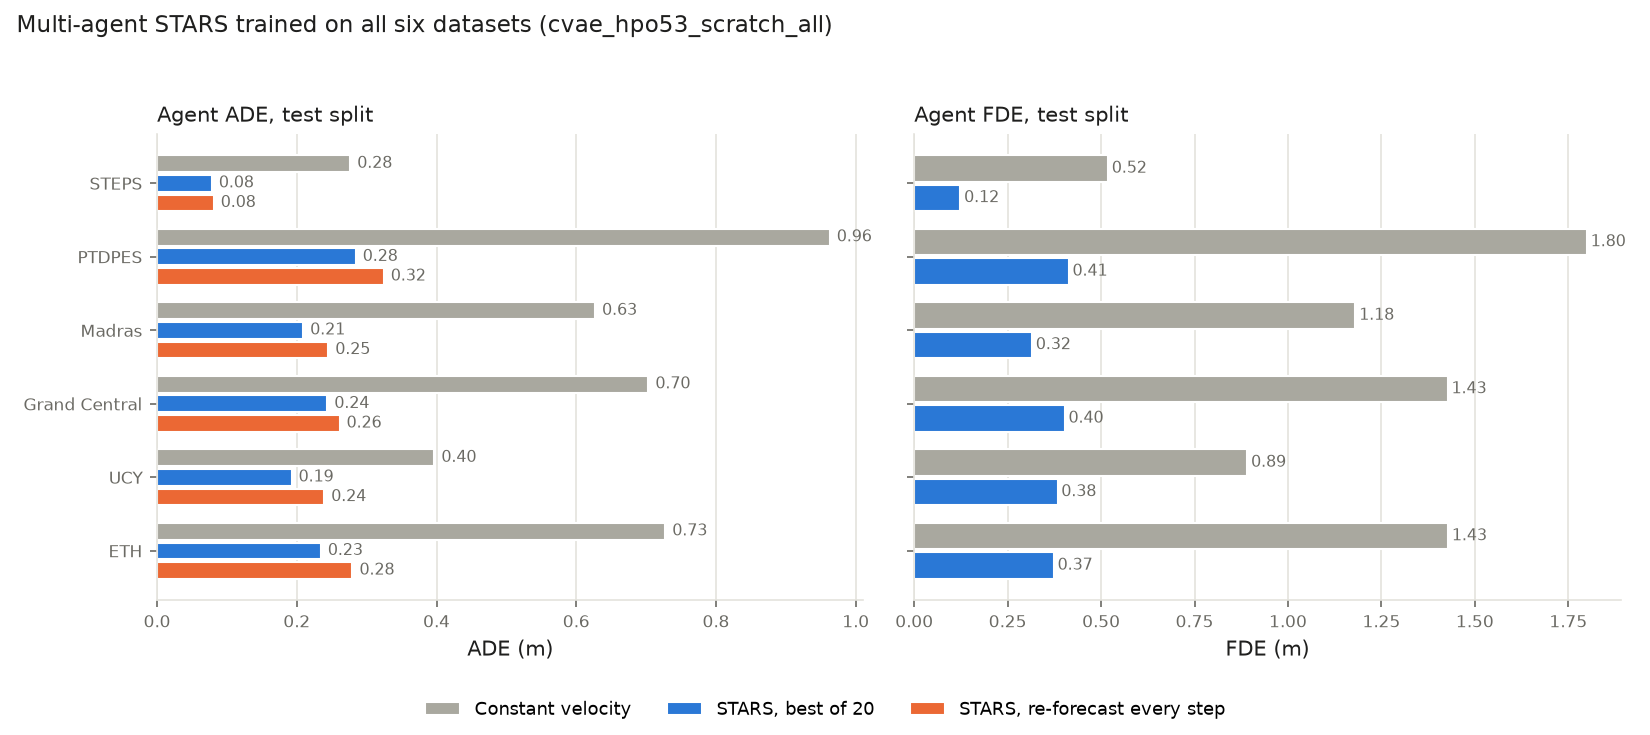
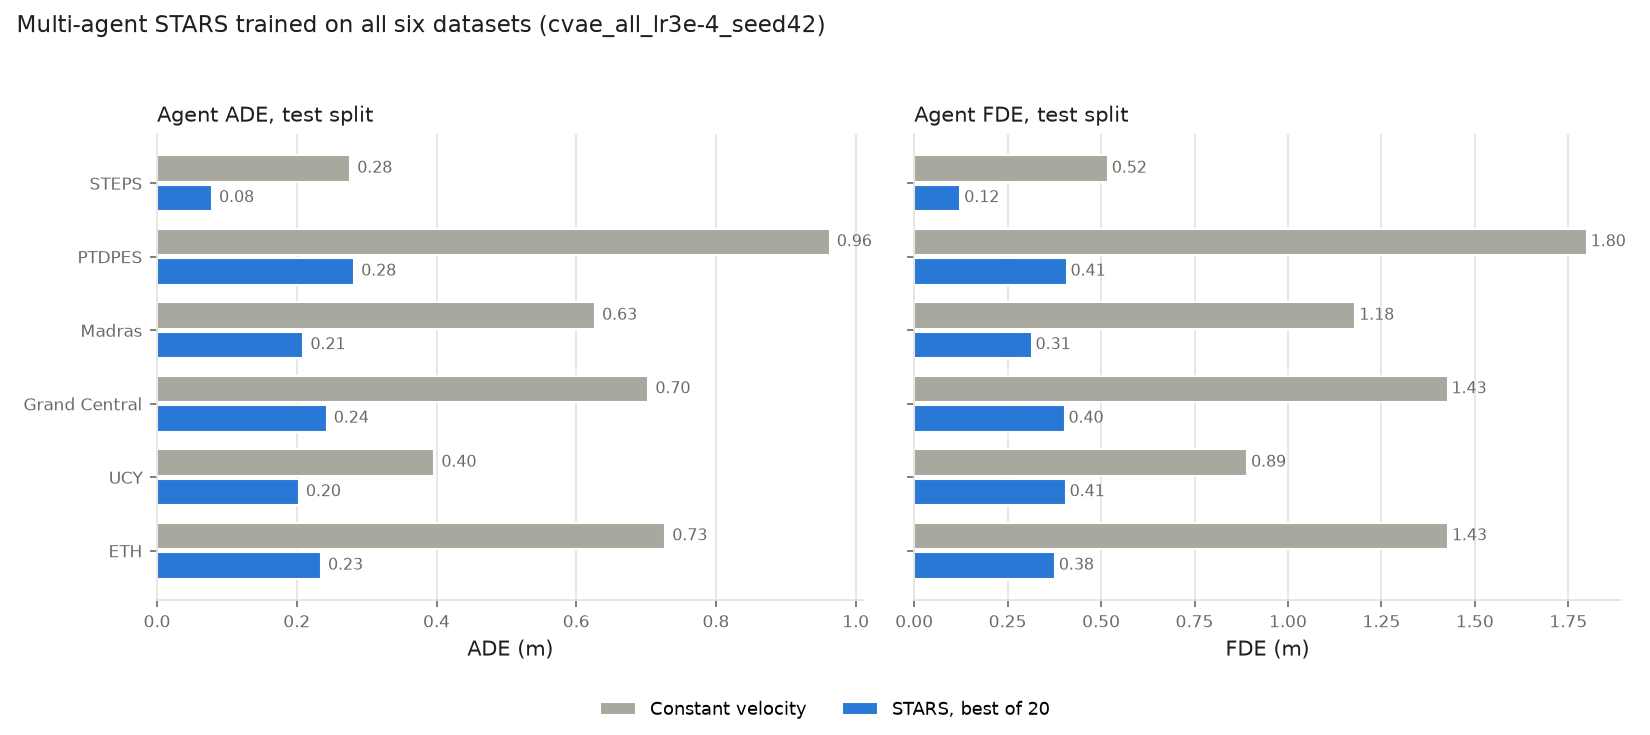
Pooled LR 3e-4 is robust and beats per-dataset models; new all-dataset reference (decision 86)

diff --git a/docs/results/README.md b/docs/results/README.md
@@ -11,10 +11,11 @@ numbers here are copied from the files linked below. The reasoning behind each c
 | Use | Artifact | Headline (test split) |
 | --- | --- | --- |
 | STEPS forecaster, and the SEAN-JAX crowd and predictor | `experiments/stars_ma/runs/cvae_kl01_finetune/checkpoints/best.pt` | ADE / FDE 0.080 / 0.126 (constant velocity 0.276 / 0.518); realistic 20 s rollouts [48] |
-| All-dataset forecaster | `experiments/stars_ma/runs/cvae_hpo53_scratch_all/checkpoints/best.pt` | 2-3.5x better than constant velocity on all six datasets. Seed-sensitive: this seed is the best of three, and averaged over seeds pooling beats per-dataset models only on UCY and ETH [80, 84] |
+| All-dataset forecaster | `experiments/stars_ma/runs/cvae_all_lr3e-4_seed42/checkpoints/best.pt` | 2-3.5x better than constant velocity on all six datasets. Better than or level with a per-dataset model on every dataset, robust across seeds (pooled LR 3e-4) [86] |
 | Navigation policy | `checkpoints/seanjax/cmaes_crowd_v4/best_policy.yaml` | In the STARS crowd: 99% success, 0.7% collisions, 100% on recorded STEPS scenes [75] |
 
-Closed questions: hyperparameter search has converged [61, 62]; closed-loop training does not
+Closed questions: pooled training beats per-dataset training once its LR is lowered to 3e-4 [86];
+hyperparameter search has converged [61, 62]; closed-loop training does not
 help [47, 65, 73]; controller cost terms cannot remove the remaining dense-flow loops [79].
 
 ## Trajectory forecasting (STEPS test split, 12,500 windows)
@@ -49,27 +50,29 @@ speed is above 0.2 m/s; about 90% of STEPS pedestrians are slower. The full tabl
 - **Searches:** [`hpo_steps_cvae_scratch.md`](hpo_steps_cvae_scratch.md) and
   [`hpo_steps_cvae_ssl.md`](hpo_steps_cvae_ssl.md).
 
-### All six datasets (test split) [59]
+### All six datasets (test split) [59, 86]
 
-Full table: [`stars_ma_all_test.md`](stars_ma_all_test.md). From-scratch model with trial-53
-settings, agent ADE / FDE, best-of-20, against constant velocity:
+Reference pooled model `cvae_all_lr3e-4_seed42` (trial-53 architecture, pooled LR 3e-4), agent
+ADE / FDE, best-of-20, against constant velocity. The earlier pooled model and its rollout
+analysis are in [`stars_ma_all_test.md`](stars_ma_all_test.md).
 
-| Dataset | Constant velocity | STARS (`cvae_hpo53_scratch_all`) |
+| Dataset | Constant velocity | STARS (`cvae_all_lr3e-4_seed42`) |
 | --- | --- | --- |
-| STEPS | 0.276 / 0.518 | 0.078 / 0.123 |
-| PTDPES | 0.963 / 1.800 | 0.284 / 0.413 |
+| STEPS | 0.276 / 0.518 | 0.079 / 0.124 |
+| PTDPES | 0.963 / 1.800 | 0.282 / 0.408 |
 | Madras | 0.627 / 1.180 | 0.209 / 0.315 |
-| Grand Central | 0.703 / 1.427 | 0.244 / 0.403 |
-| UCY | 0.397 / 0.891 | 0.193 / 0.383 |
-| ETH | 0.727 / 1.428 | 0.234 / 0.373 |
+| Grand Central | 0.703 / 1.427 | 0.243 / 0.403 |
+| UCY | 0.397 / 0.891 | 0.203 / 0.406 |
+| ETH | 0.727 / 1.428 | 0.235 / 0.377 |
 
 ![Per-dataset test error](stars_ma_all_test.png)
 
 - SSL pretraining plus fine-tuning is 0.002–0.010 m worse on every dataset.
-- **One model per dataset vs one for all** [80, 84]: seed 42 of the all-dataset model (charted) is
-  better than or level with each dataset's own model everywhere. Over three seeds, though, the
-  all-dataset model averages 2-6% *worse* on STEPS, PTDPES, Madras and Grand Central, and 18-35%
-  better on UCY and ETH. A 60-epoch schedule is being tested to remove the seed sensitivity.
+- **One model per dataset vs one for all** [86]: with the pooled LR lowered to 3e-4, the pooled
+  model is better than or level with each dataset's own model on every dataset, across four runs:
+  STEPS within ±1%, PTDPES, Madras and Grand Central 1-3% better, UCY 22-24% and ETH 40-42%
+  better. (At the STEPS-tuned LR of 9.6e-4 pooling was seed-sensitive and on average worse on the
+  large datasets [84, 85].)
 
 ![One model per dataset vs one for all](stars_ma_single_vs_all.png)
 - Feeding back its own predictions every step costs little on STEPS but 14–20% elsewhere.

diff --git a/docs/decisions.md b/docs/decisions.md
@@ -1137,3 +1137,31 @@ why, and how to undo it.
     - The 60-epoch seed-42 model lands at the typical level, not the lucky one: STEPS 0.087,
       PTDPES 0.313, Grand Central 0.260, UCY 0.215, ETH 0.256. The original seed 42 was a one-off,
       not something about the seed number.
+
+86. **A lower pooled learning rate fixes the seed sensitivity; pooling beats per-dataset models.**
+    Pooled six-dataset training at peak LR 3e-4 and 1.5e-4 (60-epoch cosine, two seeds each, job
+    66434). All four runs reach validation 0.219-0.220, against 0.220-0.251 at 9.6e-4. Test
+    agent ADE:
+
+    | Dataset | LR 3e-4, seeds 42 / 1 | LR 1.5e-4, seeds 42 / 1 | Single-dataset | Pooled vs single |
+    | --- | --- | --- | --- | --- |
+    | STEPS | 0.0787 / 0.0783 | 0.0802 / 0.0791 | 0.0791 | -1 to +1% |
+    | PTDPES | 0.282 / 0.282 | 0.283 / 0.284 | 0.290 | -2 to -3% |
+    | Madras | 0.210 / 0.210 | 0.209 / 0.209 | 0.211 | -1% |
+    | Grand Central | 0.243 / 0.243 | 0.242 / 0.244 | 0.250 | -2 to -3% |
+    | UCY | 0.203 / 0.199 | 0.203 / 0.201 | 0.262 | -22 to -24% |
+    | ETH | 0.235 / 0.235 | 0.229 / 0.238 | 0.393 | -40 to -42% |
+
+    - **Cause.** The Optuna LR (9.6e-4) was tuned on STEPS alone and is too high for mixed
+      batches. Seed 42 of the original recipe had been a lucky run at that LR.
+    - **Conclusion, replacing the suspended recommendations of 80, 84 and 85.** With LR 3e-4, one
+      pooled model is better than or level with a per-dataset model on every dataset, robustly
+      across seeds. Per-dataset models are not needed.
+    - **New all-dataset reference model:** `experiments/stars_ma/runs/cvae_all_lr3e-4_seed42`,
+      chosen by validation (0.2193), not test. `configs/stars_ma/all.yaml` now sets
+      `learning_rate: 3.0e-4`.
+    - **Figures.** `docs/results/stars_ma_single_vs_all.png` shows the four runs as mean and
+      range; `docs/results/stars_ma_all_test.png` shows the new reference model.
+    - **STEPS simulator model unchanged** (`cvae_kl01_finetune`, 0.080 ADE, with 20 s rollouts
+      validated for realism). The pooled model is level with it on STEPS (0.079), but its
+      simulation realism has not been checked, so it does not replace it in SEAN-JAX.

diff --git a/docs/results/stars_ma_all_test.md b/docs/results/stars_ma_all_test.md
@@ -1,5 +1,9 @@
 # Multi-agent STARS on all six datasets: test split
 
+> **Superseded reference (decision 86).** These models were trained at the STEPS-tuned LR of 9.6e-4,
+> where pooled training turned out to be seed-sensitive (84). The reference pooled model is now
+> `cvae_all_lr3e-4_seed42`; see `README.md`. The rollout (compounding-error) analysis below still applies.
+
 Two models, both trained on the mixture in `configs/stars_ma/all.yaml` and evaluated on
 each dataset's test split (44928 windows in all). CVAE scores are best-of-20, in metres.
 
